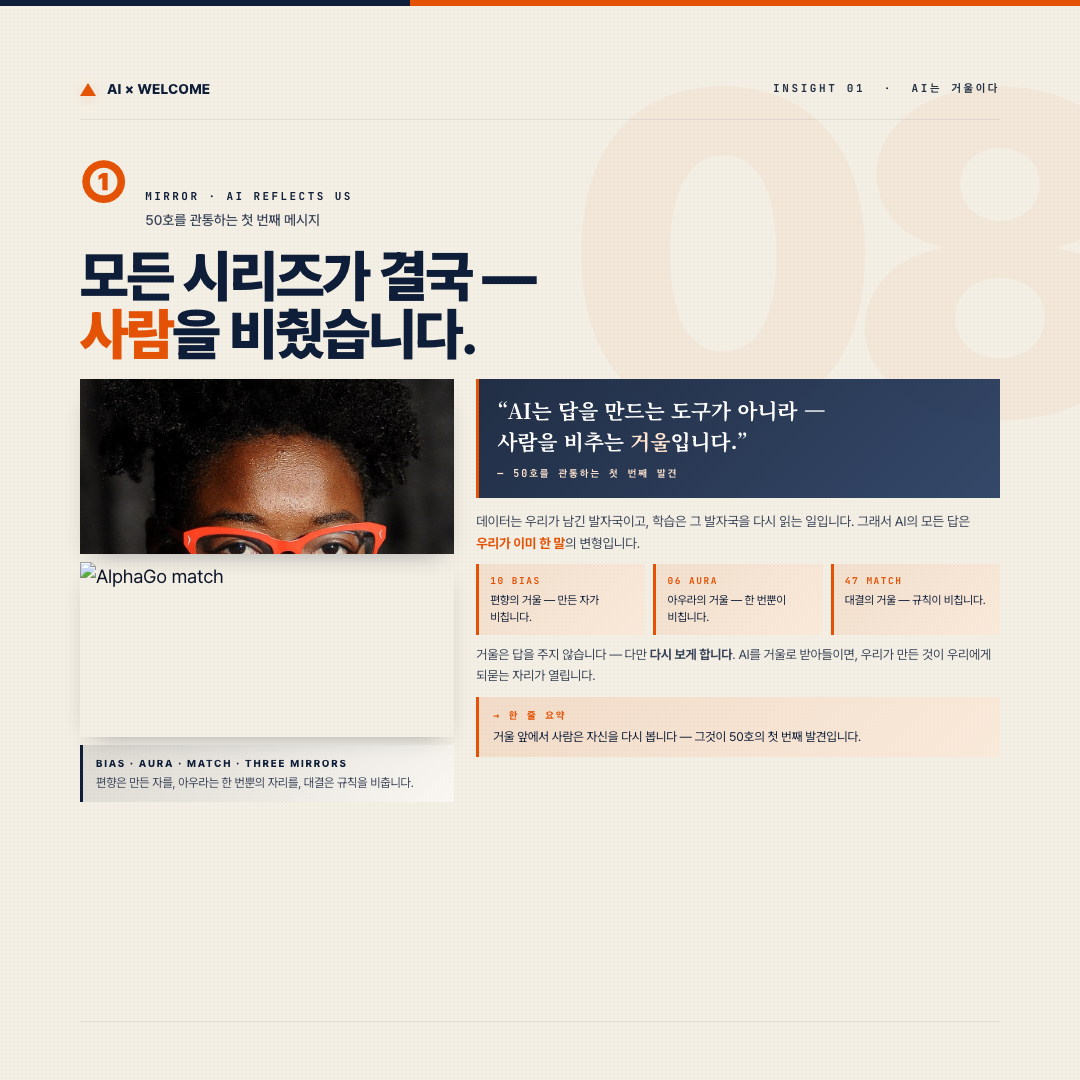
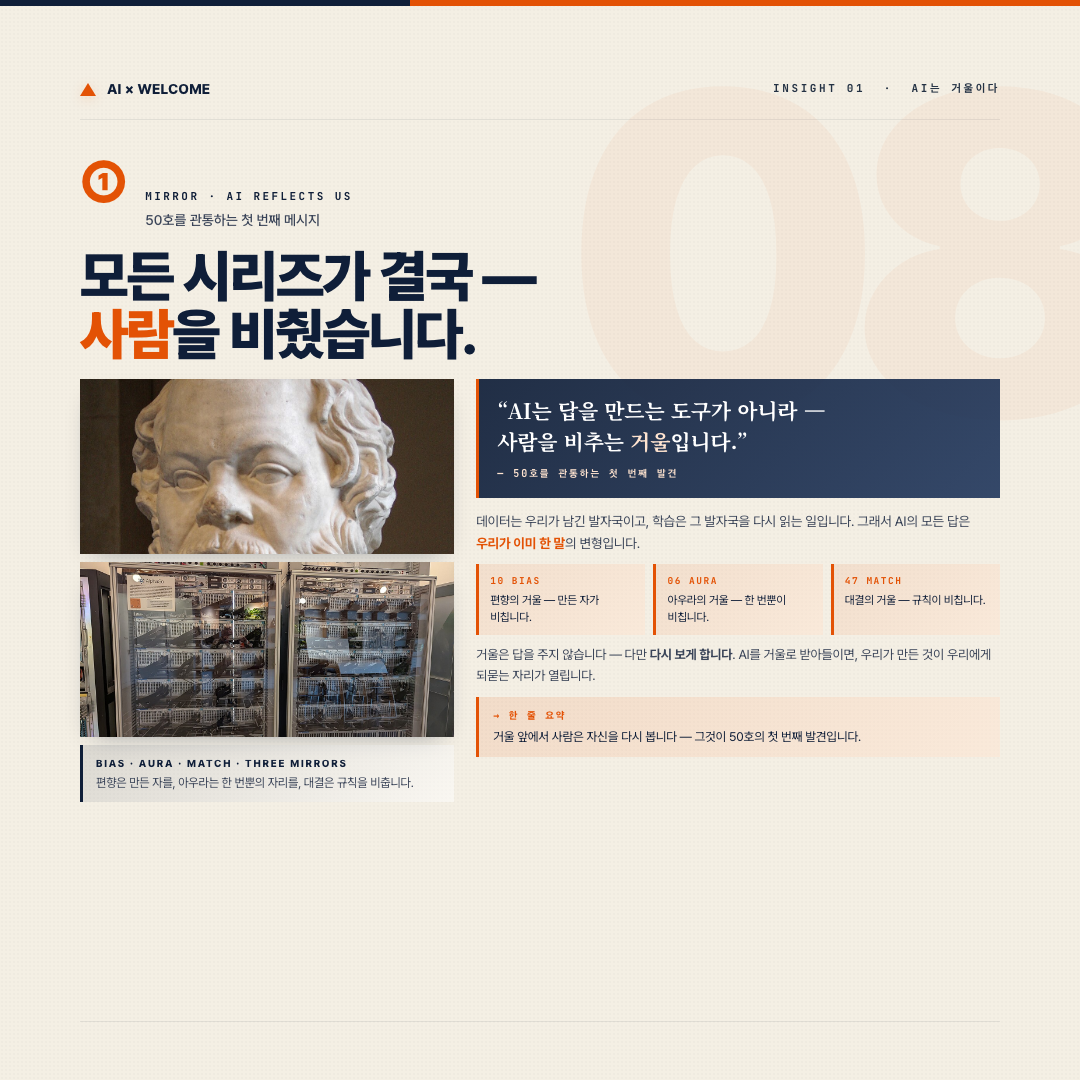
fix(51-welcome): 중복 이미지 교체
- 08-insight-mirror: buolamwini → socrates (자기 인식·반추)
- 10-insight-keep: benjamin → arendt (인간의 조건·행위)
  라벨도 BENJAMIN·아우라 → ARENDT·행위(Action)로 수정

Changed region(s): [[0.0611, 0.3361, 0.4278, 0.7028]]

diff --git a/51-cards-welcome/10-insight-keep.html b/51-cards-welcome/10-insight-keep.html
@@ -19,12 +19,12 @@
     <div style="margin-top:14px; display:grid; grid-template-columns:repeat(4, 1fr); gap:14px;">
       <div>
         <div style="height:170px; overflow:hidden; box-shadow:0 10px 24px -14px rgba(15,30,56,0.45);">
-          <img src="../images/benjamin.jpg" alt="Walter Benjamin" style="width:100%; height:100%; object-fit:cover; object-position:center 30%;" />
+          <img src="../images/arendt.jpg" alt="Hannah Arendt" style="width:100%; height:100%; object-fit:cover; object-position:center 20%;" />
         </div>
         <div style="margin-top:8px; padding:9px 11px; background:linear-gradient(135deg, rgba(15,30,56,0.10), rgba(255,255,255,0.5)); border-left:3px solid var(--navy);">
-          <div style="font-family:var(--f-mono); font-size:9.5px; letter-spacing:0.18em; color:var(--navy); font-weight:800;">BENJAMIN &middot; 1936</div>
-          <div style="font-size:12px; font-weight:700; color:var(--navy); margin-top:3px;">아우라</div>
-          <div style="font-size:11.5px; color:var(--ink-body); margin-top:3px; line-height:1.5;"><em>기술복제시대의 예술작품</em> &mdash; 지금·여기·한 번뿐.</div>
+          <div style="font-family:var(--f-mono); font-size:9.5px; letter-spacing:0.18em; color:var(--navy); font-weight:800;">ARENDT &middot; 1958</div>
+          <div style="font-size:12px; font-weight:700; color:var(--navy); margin-top:3px;">행위(Action)</div>
+          <div style="font-size:11.5px; color:var(--ink-body); margin-top:3px; line-height:1.5;"><em>인간의 조건</em> &mdash; 노동·작업과 달리 행위만이 자유입니다.</div>
         </div>
       </div>
       <div>

diff --git a/51-cards-welcome/08-insight-mirror.html b/51-cards-welcome/08-insight-mirror.html
@@ -19,7 +19,7 @@
     <div style="margin-top:14px; display:grid; grid-template-columns:1.0fr 1.4fr; gap:22px;">
       <div>
         <div style="height:175px; overflow:hidden; box-shadow:0 10px 24px -14px rgba(15,30,56,0.45);">
-          <img src="../images/buolamwini.jpg" alt="Joy Buolamwini" style="width:100%; height:100%; object-fit:cover; object-position:center 25%;" />
+          <img src="../images/socrates.jpg" alt="Socrates" style="width:100%; height:100%; object-fit:cover; object-position:center 25%;" />
         </div>
         <div style="margin-top:8px; height:175px; overflow:hidden; box-shadow:0 10px 24px -14px rgba(15,30,56,0.45);">
           <img src="../images/g-alphago.jpg" alt="AlphaGo match" style="width:100%; height:100%; object-fit:cover; object-position:center 35%;" />
